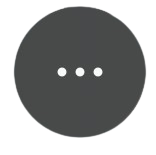
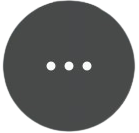
add - alterações

diff --git a/public/telaInicial2.html b/public/telaInicial2.html
@@ -1,0 +1,82 @@
+<!DOCTYPE html>
+<html lang="en">
+<head>
+    <meta charset="UTF-8">
+    <meta name="viewport" content="width=device-width, initial-scale=1.0">
+    <title>Tela Inicial</title>
+
+    <link rel="stylesheet" href="../style/style.css">
+    <script src="../scripts/linkagem.js"></script>
+
+</head>
+<body>
+    
+    <div class="flex1">
+        <div class="meio1">
+            <img class="letreiro" src="../assets/icones/letreiro_Instagram.png" alt="letreiro_Instagram">
+        </div>
+
+        <div class="meio1">
+            <div class="flex2">
+                <img class="icones" src="../assets/icones/coração de notificações.png" alt="coração de notificações">
+                <img class="icones" src="../assets/icones/icone de mensagens.png" alt="">
+            </div>
+        </div>
+    </div>
+    
+    <div class="storysFotos">
+        <div class="flex3">
+
+            <div class="storysFoto">
+                <img class="fotoReels" src="../assets/imagens/story ativo imagem.png" alt="">
+                <h3 class="nomeStory">seu story</h3>
+            </div>
+
+            <div class="storysFoto">
+                <img class="fotoReels" src="../assets/imagens/story amanda.png" alt="">
+                <h3 class="nomeStory">Ameinda</h3>
+            </div>
+
+            <div class="storysFoto">
+                <img class="fotoReels" src="../assets/imagens/story daniel.png" alt="">
+                <h3 class="nomeStory">Daniels</h3>
+            </div>
+
+            <div class="storysFoto">
+                <img class="fotoReels" src="../assets/imagens/story joão.png" alt="">
+                <h3 class="nomeStory">Jão_do_grau</h3>
+            </div>        
+        </div>    
+    </div>
+    
+    <div class="publicacao">
+        <div class="flex4">
+            <div class="meio2">
+                <div class="flex4">
+                    <img class="fotoPerfil" src="../assets/imagens/foto de perfil ícaro.png" alt="">
+                    <h2 class="nome">Ícaro</h12>
+                </div>
+            </div>
+    
+            <div class="meio3">
+                <div class="flex2">
+                    <img class="pontos" src="../assets/icones/3 pontos.png" alt="">
+                </div>
+            </div>
+        </div>
+        <div class="flex3">
+            <img class="publicacao1" src="../assets/imagens/Ícaro.jpg" alt="">
+        </div>
+    </div>
+
+    <div class="flex3">
+        <div class="iconesAbaixo">
+            <img class="iconeAbaixo" src="../assets/icones/tela principal -atalho.png" alt="">
+            <img class="iconeAbaixo" src="../assets/icones/lupa de busca.png" alt="">
+            <img class="iconeAbaixo" src="../assets/icones/adicionar publicações.png" alt="">
+            <img class="iconeAbaixo" src="../assets/icones/reels.png" alt="">
+            <img class="iconeAbaixo" src="../assets/imagens/foto de perfil.png" alt="">
+        </div>    
+    </div>
+</body>
+</html>

diff --git a/style/style.css b/style/style.css
@@ -74,20 +74,27 @@ body{
 
 .icon1{
     position: absolute;
-    width: 45px;
-    height: 45px;
+    width: 47px;
+    height: 47px;
 }
 
 .icon2{
     position: absolute;
-    width: 180px;
-    height: 45px;
+    width: 182px;
+    height: 47px;
 }
 
 .icones{
     width: 35px;
     height: 35px;
     padding: 10px;
+    margin: 0px;
+}
+
+.icones2{
+    width: 35px;
+    height: 35px;
+    padding: 0px;
     margin: 0px;
 }
 
@@ -136,6 +143,13 @@ body{
 }
 
 .nome{
+    width: 40px;
+    height: 35px;
+    padding: 10px;
+    margin: 0px;
+}
+
+.letrinhas{
     width: 40px;
     height: 35px;
     padding: 10px;
@@ -195,37 +209,97 @@ body{
     top: 0;
     left: 0;
     width: 400px;
-    height: 780px;
+    height: 745px;
     object-fit: cover; 
     z-index: -1;       
 }
 
-.buttons {
-   position: absolute;
+.botoes {
+    position: absolute;
     bottom: 20px;
-    width: 390px;
+    left: 0;
+    right: 0;
     display: flex;
-    flex-direction: column;
+    justify-content: center;
     align-items: center;
-    gap: 15px;
+    gap: 13px;
 }
   
-.buttonOpcoes {
-    display: flex;
-    gap: 10px;
-    margin-top: 10px;
-}
-  
-.buttonOpcoes button {
-    padding: 10px 15px;
-    border-radius: 25px;
+.botoes button {
+    padding: 10px 10px;
+    border-radius: 30px;
     border: none;
     font-weight: bold;
-    background-color:  rgb(44, 44, 44);
-    color: #ffffff;
-} 
+    display: flex;
+    align-items: center;
+    gap: 5px;
+    cursor: pointer;
+}
+  
+.story {
+    background-color: rgb(44, 44, 44);
+    border: 1px solid #8b8b8b;
+    color: white;
+}
+  
+.amigos {
+    background: #1dd05d;
+    border: 1px solid #87ff7c;
+    color: white;
+}
+
+.seta {
+    width: 45px;
+    height: 45px; 
+}
 
 .fotoEscolhida{
     width: 390px;
     height: 838px;
+}
+
+.menu-opcoes {
+    position: absolute;
+    top: 85px;
+    right: 25px;
+    background: rgb(44, 44, 44);
+    color: white;
+    padding: 15px;
+    border-radius: 20px;
+    display: none;
+    flex-direction: column;
+    gap: 15px;
+    width: 220px;
+    opacity: 0.9;
+}
+  
+.menu-opcoes p {
+    display: flex;
+    align-items: center;
+    gap: 10px;
+    margin: 0;
+    cursor: pointer;
+}
+
+.submenu-tempo {
+    position: absolute;
+    top: 300px;
+    right: 25px;
+    background: rgb(44, 44, 44);
+    color: white;
+    padding: 15px;
+    border-radius: 20px;
+    display: none;
+    flex-direction: column;
+    gap: 15px;
+    width: 220px;
+    opacity: 0.9;
+}
+  
+.submenu-tempo p {
+    display: flex;
+    align-items: center;
+    gap: 10px;
+    margin: 0;
+    cursor: pointer;
 }

diff --git a/scripts/linkagem.js b/scripts/linkagem.js
@@ -1,3 +1,48 @@
 function localFoto1(){
     window.location.href="localFoto1.html";
 }
+
+function localFoto2(){
+    window.location.href="localFoto2.html";
+}
+
+function Menu() {
+    const menu = document.getElementById('menuOpcoes');
+    menu.style.display = menu.style.display === 'flex' ? 'none' : 'flex';
+}
+
+function Tempo() {
+    const submenu = document.getElementById('submenuTempo');
+    submenu.style.display = submenu.style.display === 'flex' ? 'none' : 'flex';
+}
+
+function esperar(ms) {
+    return new Promise(resolve => setTimeout(resolve, ms));
+}
+
+async function iniciarContador() {
+    const tempo = localStorage.getItem("tempoStory");
+
+    if (tempo) {
+        await esperar(tempo * 1000);
+        localStorage.setItem("storyExpirado", "true");
+        window.location.href = "telaInicial.html";
+    }
+}
+
+if (window.location.href.includes("telaInicial2.html")) {
+    iniciarContador();
+}
+
+if (window.location.href.includes("telaInicial.html")) {
+    const expirou = localStorage.getItem("storyExpirado");
+    if (expirou === "true") {
+        alert("⏰ O tempo do story expirou!");
+        localStorage.removeItem("storyExpirado");
+    }
+}
+
+function definirTempo(tempoEmSegundos) {
+    localStorage.setItem("tempoStory", tempoEmSegundos);
+    window.location.href = "telaInicial2.html";
+}

diff --git a/public/localFoto2.html b/public/localFoto2.html
@@ -10,7 +10,7 @@
 </head>
 <body>
     <div class="cameraInterface">
-        <img src="../assets/imagens/dog1.png" class="fundo">
+        <img src="../assets/imagens/dog2.png" class="fundo">
         <a href="adicionarStory.html">
             <img src="../assets/icones/x.png" class="icon1" style="top: 20px; left:5px;">
         </a>
